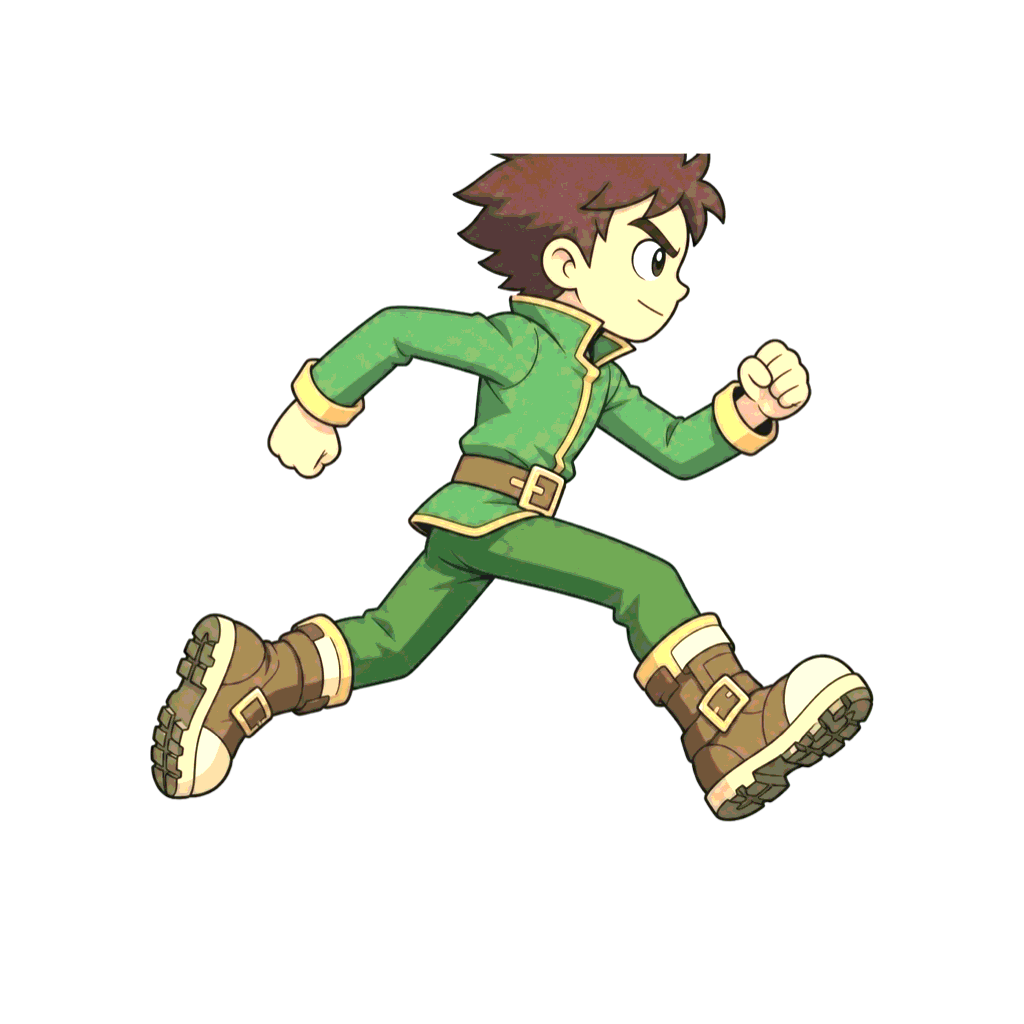
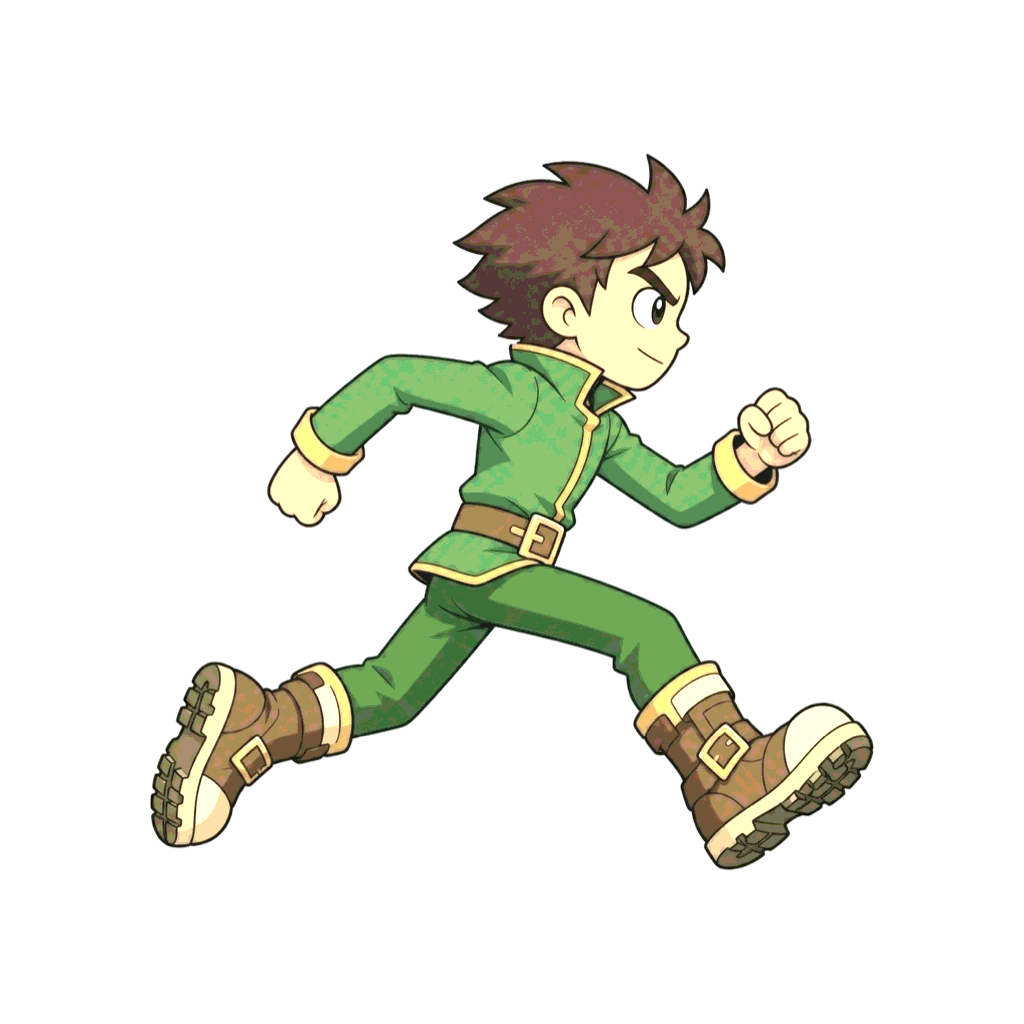
fix: 主人公アセットの頭頂部が切れる問題を修正

Changed region(s): [[0.125, 0.125, 0.875, 0.875]]

diff --git a/tools/artpipeline/main.swift b/tools/artpipeline/main.swift
@@ -337,7 +337,9 @@ func normalize(_ bitmap: Bitmap) -> Bitmap? {
         bitmapInfo: CGImageAlphaInfo.premultipliedLast.rawValue
     ), let sourceImage = sourceCtx.makeImage(),
        let cropped = sourceImage.cropping(to: CGRect(
-           x: minX, y: bitmap.height - maxY - 1, width: cropWidth, height: cropHeight))
+           // `sourceImage` は `Bitmap` と同じ行順で作っているため、ここでY座標を
+           // 反転すると上下にずれ、縦長の素材では頭頂側が切り落とされる。
+           x: minX, y: minY, width: cropWidth, height: cropHeight))
     else { return nil }
 
     let w = Double(cropWidth) * finalScale

diff --git a/WalkUP/UI/BattleView.swift b/WalkUP/UI/BattleView.swift
@@ -133,8 +133,6 @@ struct BattleView: View {
         ZStack(alignment: .top) {
             HeroPortrait()
                 .frame(maxWidth: portraitWidth, maxHeight: 175)
-                // ダメージ数値の表示領域を立ち絵と分け、頭部に重ならないようにする。
-                .padding(.top, 44)
                 // 明度を上げると髪の細い輪郭が白飛びして、頭が欠けたように見える。
                 // 主人公の画素は変えず、外周の発光だけで被弾を表現する。
                 .shadow(
